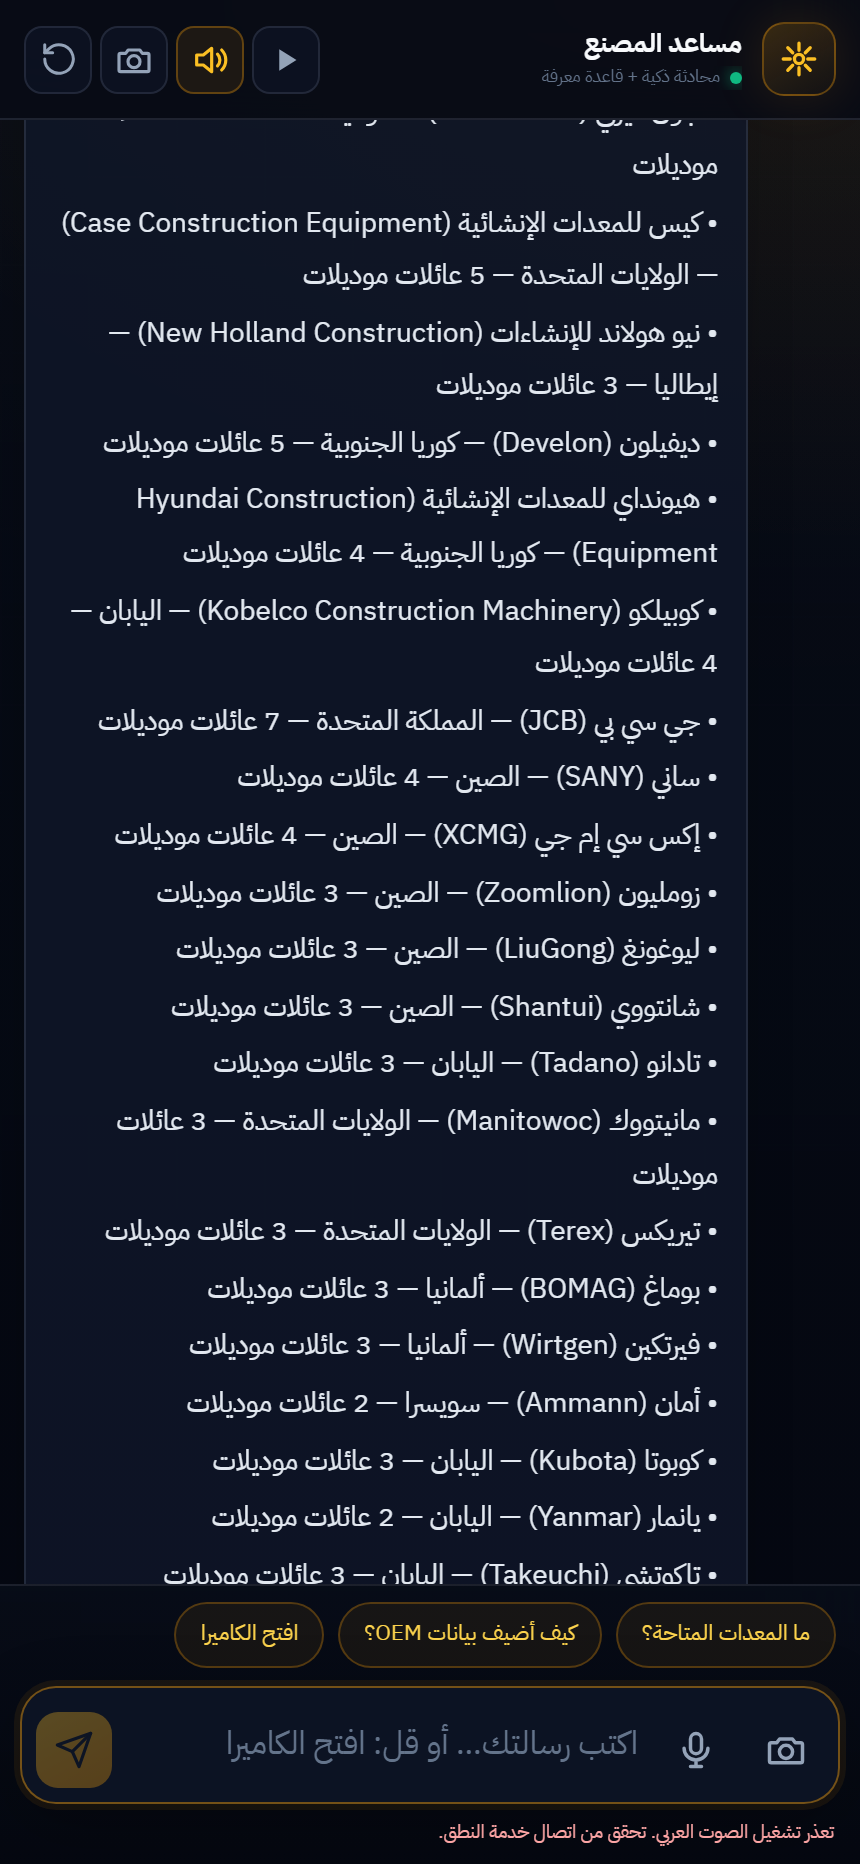
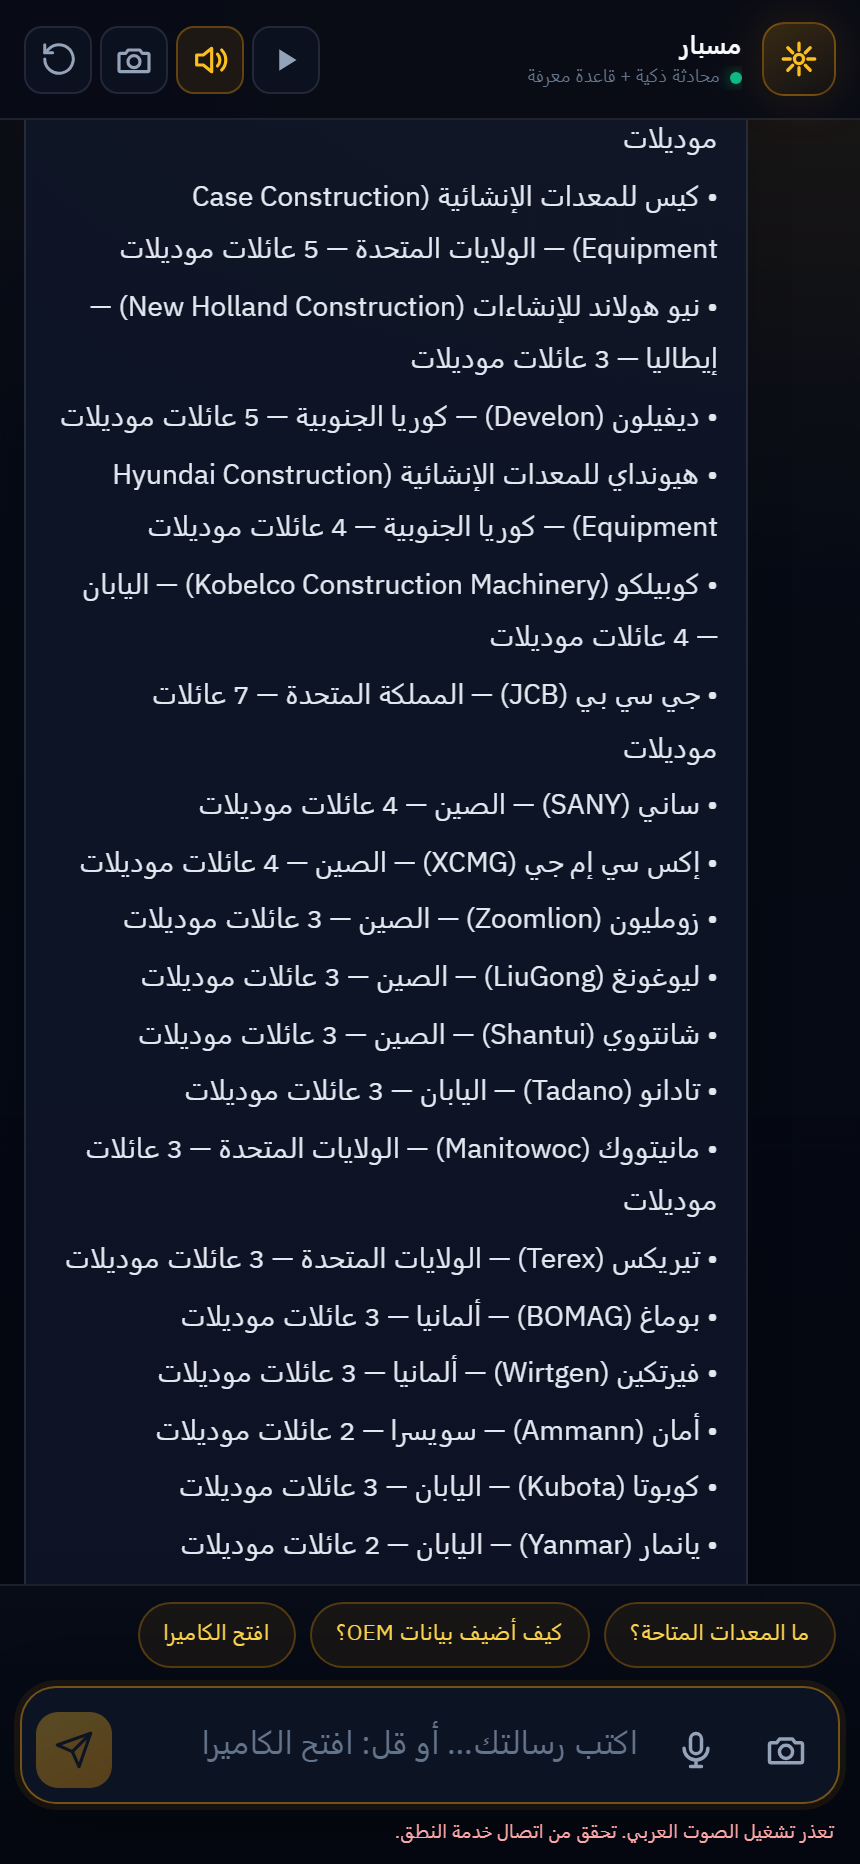
Rebrand as Masbar and update tests/docs

diff --git a/web/index.html b/web/index.html
@@ -6,7 +6,7 @@
     <meta name="theme-color" content="#050811" />
     <meta
       name="description"
-      content="مساعد صناعي بصري وصوتي لفنيي الصيانة: تحديد القطع، بوابة سلامة LOTO، وخطوات موثقة بالعربية."
+      content="مسبار: مساعد صناعي بصري وصوتي لفنيي الصيانة — تحديد القطع، بوابة سلامة LOTO، وخطوات موثقة بالعربية."
     />
     <link rel="manifest" href="/manifest.webmanifest" />
     <link rel="icon" href="/icon.svg" type="image/svg+xml" />
@@ -16,7 +16,7 @@
       href="https://fonts.googleapis.com/css2?family=IBM+Plex+Sans+Arabic:wght@400;500;600;700&family=IBM+Plex+Mono:wght@500;600&display=swap"
       rel="stylesheet"
     />
-    <title>المساعد الصناعي الذكي</title>
+    <title>مسبار — المساعد الصناعي الذكي</title>
   </head>
   <body>
     <div id="root"></div>

diff --git a/web/src/components/ChatScreen.tsx b/web/src/components/ChatScreen.tsx
@@ -700,7 +700,7 @@ export function ChatScreen() {
             <SparkIcon size={21} />
           </span>
           <div className="chat-brand-copy">
-            <strong>مساعد المصنع</strong>
+            <strong>مسبار</strong>
             <small>
               <span className={`chat-status-dot ${online ? "online" : "offline"}`} />
               {health === null
@@ -776,7 +776,7 @@ export function ChatScreen() {
                 <div className="chat-msg-content">
                   {message.role === "assistant" && (
                     <div className="chat-msg-meta">
-                      <strong>مساعد المصنع</strong>
+                      <strong>مسبار</strong>
                       {message.source && (
                         <span className={`chat-source ${message.source}`}>
                           {SOURCE_LABELS[message.source]}

diff --git a/web/src/components/HomeScreen.tsx b/web/src/components/HomeScreen.tsx
@@ -45,8 +45,8 @@ export function HomeScreen({
             <ShieldIcon size={22} />
           </span>
           <span className="brand-text">
-            <strong>المساعد الصناعي</strong>
-            <small>SPATIAL AI · FIELD</small>
+            <strong>مسبار</strong>
+            <small>MASBAR · SPATIAL AI</small>
           </span>
         </div>
         <span className="version-chip">MVP 0.1</span>

diff --git a/backend/app/services/chat.py b/backend/app/services/chat.py
@@ -274,7 +274,7 @@ class ChatService:
         equipment = self.assistant.list_equipment()
         return ChatResponse(
             message_ar=(
-                "مرحبًا! أنا مساعد المصنع. أستطيع فتح الكاميرا ووصف الصور، "
+                "مرحبًا! أنا مسبار، مساعد المصنع. أستطيع فتح الكاميرا ووصف الصور، "
                 "والاستماع لصوتك، وبدء جلسة صيانة آمنة خطوة بخطوة.\n\n"
                 "جرّب: «افتح الكاميرا»، «ما المعدات المتاحة؟»، أو "
                 "«ابدأ جلسة على Caterpillar C15 ACERT»."

diff --git a/backend/app/adapters/chat/cohere_chat.py b/backend/app/adapters/chat/cohere_chat.py
@@ -4,7 +4,7 @@ from dataclasses import dataclass
 
 import httpx
 
-CHAT_SYSTEM_PROMPT = """أنت «مساعد المصنع»، مساعد محادثة عربي داخل تطبيق صيانة صناعية.
+CHAT_SYSTEM_PROMPT = """أنت «مسبار»، مساعد محادثة عربي داخل تطبيق صيانة صناعية.
 قواعدك:
 1. أجب بالعربية الواضحة وباختصار، وكن عمليًا ومفيدًا.
 2. يمكنك شرح المفاهيم الصناعية العامة، والأدوات، والسلامة العامة.

diff --git a/scripts/e2e_chat.py b/scripts/e2e_chat.py
@@ -513,7 +513,7 @@ def main() -> int:
         cdp.call("Page.navigate", {"url": APP_URL})
 
         cdp.wait_js(
-            "document.querySelector('.chat-brand-copy strong')?.textContent.includes('مساعد المصنع')",
+            "document.querySelector('.chat-brand-copy strong')?.textContent.includes('مسبار')",
             30,
             "app shell",
         )

diff --git a/docs/TEST_RESULTS.md b/docs/TEST_RESULTS.md
@@ -1,4 +1,4 @@
-# نتائج الاختبار الفعلي — مساعد المصنع
+# نتائج الاختبار الفعلي — مسبار
 
 **تاريخ التنفيذ:** 21 نوفمبر 2026
 **البيئة:** Windows، Chrome headless، الواجهة على `http://127.0.0.1:5173`، الخادم على `http://127.0.0.1:8010`
@@ -16,7 +16,7 @@
 | فحوص E2E الفعلية | **34/34 ناجح** |
 | لقطات محفوظة | **12** |
 | أخطاء JavaScript | **0** |
-| مدة الجلسة كاملة | **41.1 ثانية** |
+| مدة الجلسة كاملة | **41.2 ثانية** |
 | سجل شركات OEM | **31 شركة / 126 عائلة موديلات** |
 | الصوت العربي | **Edge Neural (`ar-SA-ZariyahNeural`) + ذاكرة MP3 محلية** |
 | مزوّد الرؤية والمحادثة | Cohere (`vision_provider=cohere`, `chat_provider=cohere`) |
@@ -78,7 +78,7 @@ X-TTS-Language: ar
 
 | # | الفحص | النتيجة | التفاصيل |
 | --- | --- | --- | --- |
-| 10 | رسالة الترحيب ظاهرة | ✅ | «مرحبًا! أنا مساعد المصنع…» |
+| 10 | رسالة الترحيب ظاهرة | ✅ | «مرحبًا! أنا مسبار…» |
 | 11 | تخطيط RTL | ✅ | `document.documentElement.dir === "rtl"` |
 | 12 | ترويسة المحادثة | ✅ | «محادثة ذكية + قاعدة معرفة» |
 | 13 | زر اختبار الصوت يشغّل MP3 عربيًا | ✅ | `window.__ttsProbe.plays=1`، المصدر `blob:` |
@@ -93,13 +93,13 @@ X-TTS-Language: ar
 | # | الفحص | النتيجة | التفاصيل |
 | --- | --- | --- | --- |
 | 15 | استقبال إطارات الكاميرا | ✅ | 1280×960، `readyState=4` |
-| 16 | التقاط الصورة ووصفها | ✅ | 6.5 ثانية |
+| 16 | التقاط الصورة ووصفها | ✅ | 12.1 ثانية |
 | 17 | الوصف يذكر المحتوى الظاهر | ✅ | ذكر `312-5620` والنص الإنجليزي |
 | 18 | الوصف موسوم كغير معتمد | ✅ | «هذا وصف عام للصورة وليس تحديدًا معتمدًا» |
 
 **نص الوصف الفعلي (مختصر):**
 
-> جهاز إلكتروني رمادي اللون ذو شكل غير منتظم، به شاشة عرض في المنتصف تعرض النص: «جهاز تحكم وقود القطارات / 312-5620 / صمام التحكم / 24 فولت»… ملاحظة: هذا وصف عام للصورة وليس تحديدًا معتمدًا.
+> جهاز إلكتروني رمادي اللون، ذو شكل غير منتظم مع حواف مستديرة، موضوع على سطح داكن. يحتوي على لوحة بيضاء في المنتصف مكتوب عليها: «CAT FUEL ACTUATOR 312-5620 CONTROL VALVE / 24V»… ملاحظة: هذا وصف عام للصورة وليس تحديدًا معتمدًا.
 
 **اللقطات:** `docs/screenshots/chat-camera-live.png`، `docs/screenshots/chat-image-description.png`
 
@@ -123,7 +123,7 @@ X-TTS-Language: ar
 | 25 | الجلسة جاهزة للخطوات | ✅ | الحالة «جاهز» |
 | 26 | الانتقال للخطوة التالية | ✅ | «الخطوة 2 من 4 — لف عكس عقارب الساعة» |
 
-استغرق التحديد **6.1 ثانية**، وأعاد القطعة الصحيحة بثقة 100% من قاعدة المعرفة، ثم أُغلقت بوابة LOTO بتأكيد البنود الثلاثة.
+استغرق التحديد **7.7 ثانية**، وأعاد القطعة الصحيحة بثقة 100% من قاعدة المعرفة، ثم أُغلقت بوابة LOTO بتأكيد البنود الثلاثة.
 
 **اللقطات:** `docs/screenshots/chat-loto.png`، `docs/screenshots/chat-step-1.png`، `docs/screenshots/chat-step-2.png`
 
@@ -168,9 +168,9 @@ X-TTS-Language: ar
 
 | العملية | الزمن |
 | --- | --- |
-| وصف صورة كامل (Cohere Vision) | 6.5 ثانية |
-| تحديد بصري + تحقق من قاعدة المعرفة | 6.1 ثانية |
-| الجلسة الكاملة (34 فحصًا) | 41.1 ثانية |
+| وصف صورة كامل (Cohere Vision) | 12.1 ثانية |
+| تحديد بصري + تحقق من قاعدة المعرفة | 7.7 ثانية |
+| الجلسة الكاملة (34 فحصًا) | 41.2 ثانية |
 
 هذه الأزمنة من مزوّد سحابي حي وتتأثر بزمن الشبكة. الأوامر المحلية (بدء جلسة، عرض قطع، LOTO، الخطوات، العزم، الشركات) تُنجز في أجزاء من الثانية لأنها لا تستدعي LLM.
 

diff --git a/docs/PROGRESS.md b/docs/PROGRESS.md
@@ -1,8 +1,8 @@
-# تقرير التقدم — مساعد المصنع (Industrial Spatial AI Assistant)
+# تقرير التقدم — مسبار (Masbar)
 
 **التاريخ:** 18–21 نوفمبر 2026
 **الإصدار:** 0.2.0 (MVP محادثة + محرك سلامة + صوت عربي + سجل OEM)
-**الموقع:** مجلد المشروع المحلي بعد استنساخه من GitHub.
+**المستودع:** https://github.com/Alooosh123/Masbar
 
 ---
 
@@ -226,6 +226,14 @@ VISION_MODEL=command-a-vision-07-2025
 | تشغيل المتصفح | `__ttsProbe.plays=1`، مصدر `blob:` |
 
 **الحدود:** بيانات الصيانة ما زالت `sample`. السجل يربط المصادر الرسمية فقط، ولا يجوز استنتاج قيم عزم أو خطوات منه. الصوت العصبي يعتمد على الإنترنت، والذاكرة تغطي العبارات المتكررة فقط. التفاصيل في `docs/TEST_RESULTS.md` و`docs/OEM_DATA.md`.
+
+### 3.8 النشر على GitHub والعمل من المستودع (21 نوفمبر 2026)
+
+- رُفع المشروع إلى مستودع GitHub خاص: **https://github.com/Alooosh123/Masbar**.
+- وُحّد الاسم الظاهر للتطبيق مع **«مسبار»** في الواجهة و`index.html` و`manifest` والوثائق، مع إبقاء عبارة اختبار الصوت كما هي للحفاظ على مفتاح ملف MP3 المخزّن.
+- أُنشئت نسخة عمل نظيفة من المستودع، وثُبتت بيئتها من `backend/requirements.txt` و`package-lock.json`.
+- أُضيفت `pytest` و`pytest-asyncio` إلى `backend/requirements.txt` ليعمل الاختبار مباشرة بعد الاستنساخ.
+- أُعيد تشغيل الاختبارات من النسخة الجديدة: **64/64** اختبار pytest، و**34/34** فحص E2E، وبناء الواجهة ناجح. الخادم والواجهة يعملان الآن من نسخة المستودع.
 
 ---
 

diff --git a/README.md b/README.md
@@ -1,6 +1,8 @@
-# مساعد المصنع — Industrial Spatial AI Assistant
+# مسبار (Masbar) — مساعد المصنع الصناعي
 
-مساعد محادثة عربي (RTL) بوضع داكن، يعمل بالكاميرا والصوت من داخل المحادثة، ويجمع بين محادثة عامة ذكية ومحرك صيانة صناعي حتمي مع بوابة سلامة **LOTO** ومنع صارم للهلوسة.
+**المستودع:** https://github.com/Alooosh123/Masbar
+
+مسبار مساعد محادثة عربي (RTL) بوضع داكن، يعمل بالكاميرا والصوت من داخل المحادثة، ويجمع بين محادثة عامة ذكية ومحرك صيانة صناعي حتمي مع بوابة سلامة **LOTO** ومنع صارم للهلوسة.
 
 > **الحالة: نسخة تجريبية (MVP) قابلة للتشغيل الكامل.**
 > كل بيانات المعرفة الحالية **تجريبية** (`data_status: sample`) وموسومة بوضوح داخل الواجهة. لا تستخدمها لأي عمل صيانة حقيقي قبل استبدالها بأدلة المصنّع الرسمية.
